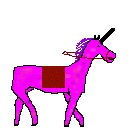
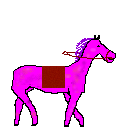
horn stuff

Changed region(s): [[0.7812, 0.2188, 0.9062, 0.3438], [0.0938, 0.5, 0.1875, 0.5625]]

diff --git a/src/entities/Horn.java b/src/entities/Horn.java
@@ -1,0 +1,54 @@
+package entities;
+
+import main.Main;
+import util.PictureImport;
+
+import java.awt.image.BufferedImage;
+
+public class Horn  extends Entity{
+
+    public static final BufferedImage horn1 = PictureImport.importImage("Horn_standard.png");
+    public static final BufferedImage horn2 = PictureImport.importImage("Horn_red.png");
+    public static final BufferedImage horn3 = PictureImport.importImage("Horn_gold.png");
+    public static final BufferedImage horn4 = PictureImport.importImage("Horn_rainbow.png");
+
+    public static final BufferedImage _horn1 = PictureImport.importImage("Horn_standard_attack.png");
+    public static final BufferedImage _horn2 = PictureImport.importImage("Horn_red_attack.png");
+    public static final BufferedImage _horn3 = PictureImport.importImage("Horn_gold_attack.png");
+    public static final BufferedImage _horn4 = PictureImport.importImage("Horn_rainbow_attack.png");
+
+    public static int h = 1;
+    public static BufferedImage horn = horn1;
+    private static BufferedImage _horn = PictureImport.flip(horn);
+    public static BufferedImage attackHorn = horn1;
+    private static BufferedImage _attackHorn = PictureImport.flip(_horn3);
+
+    public Horn(){
+        super(0, 0, 32, 32, horn);
+    }
+
+    public void update() {
+        if (!Main.player.attacking) {
+            if (Main.player.speed > 0) {
+                bi = horn;
+                x = Main.player.x + 200;
+                y = Main.player.y + 60;
+            } else {
+                bi = _horn;
+                x = Main.player.x + 20;
+                y = Main.player.y + 60;
+            }
+        } else{
+            if(Main.player.speed > 0){
+                bi = attackHorn;
+                x = Main.player.x + 240;
+                y = Main.player.y + 130;
+            } else{
+                bi = _attackHorn;
+                x = Main.player.x - 20;
+                y = Main.player.y + 130;
+            }
+
+        }
+    }
+}

diff --git a/src/main/Main.java b/src/main/Main.java
@@ -13,6 +13,7 @@ public class Main extends Thread{
     public static JFrame frame = new JFrame("MASTERRACE");
     public static GamePanel panel;
     private static long lastCycleTime = 0;
+    public static Horn horn = new Horn();
     public static final int TICKS = 30;
     public static int tick=0;
     private static Vec2f mouseClick;
@@ -84,7 +85,19 @@ public class Main extends Thread{
                         Player.maxLife *= 1.2f;
                         Player.life *= 1.2f;
                     } else{
-                        // todo: upgrade horn
+                        if(Horn.h == 1){
+                            Horn.horn = Horn.horn2;
+                            Horn.attackHorn = Horn._horn2;
+                        } else if(Horn.h == 2){
+                            Horn.horn = Horn.horn3;
+                            Horn.attackHorn = Horn._horn3;
+                        } else if(Horn.h == 3){
+                            Horn.horn = Horn.horn4;
+                            Horn.attackHorn = Horn._horn4;
+                        } else if(Horn.h == 4){
+                            Horn.horn = Horn.horn1;
+                            Horn.attackHorn = Horn._horn1;
+                        }
                     }
 
                 }
@@ -108,6 +121,7 @@ public class Main extends Thread{
         }
         player.update();
         prince.update();
+        horn.update();
         mouseClick = null;
         if(rainbows.size() > 100) rainbows.remove(0);
     }

diff --git a/src/entities/Player.java b/src/entities/Player.java
@@ -31,7 +31,7 @@ public class Player extends Entity{
     private final int START_Y=Main.panel.getHeight()-Player.PLAYER_SIZE-Level.TILE_SCREEN_SIZE;
 
     private int lastAttackChange=0;
-    private static boolean attacking = false;
+    public static boolean attacking = false;
 
     public Player(int xCoordinate, int yCoordinate){
         super(xCoordinate,yCoordinate, PLAYER_SIZE, PLAYER_SIZE, PictureImport.importImage("Einhorn_1.png"));
@@ -58,8 +58,8 @@ public class Player extends Entity{
                 _img1.setRGB(_img1.getWidth()-i-1, j, tmp);
             }
 
-        attackingImg = PictureImport.importImage("attacking.png");
-        _attackingImg = attackingImg;
+        attackingImg = PictureImport.importImage("Einhorn_Attack.png");
+        _attackingImg = PictureImport.importImage("Einhorn_Attack.png");
         for (int i=0;i<_attackingImg.getWidth()/2;i++)
             for (int j=0;j<_attackingImg.getHeight();j++)
             {
@@ -94,6 +94,7 @@ public class Player extends Entity{
                     }
                 }
             }
+
         } else {
             if(lastAttackChange + ATTACK_DURATION < Main.tick){
                 attacking = false;

diff --git a/src/entities/Prince.java b/src/entities/Prince.java
@@ -7,13 +7,30 @@ import java.awt.image.BufferedImage;
 
 public class Prince extends Entity {
     private static final BufferedImage bmp = PictureImport.importImage("Prinz_1.png");
+    private static final BufferedImage _img = PictureImport.importImage("Prinz_1.png");
+
     public Prince(){
         super(0, 0, 200, 200, bmp);
+        for (int i=0;i<_img.getWidth()/2;i++)
+            for (int j=0;j<_img.getHeight();j++)
+            {
+                int tmp = _img.getRGB(i, j);
+                _img.setRGB(i, j, _img.getRGB(_img.getWidth()-i-1, j));
+                _img.setRGB(_img.getWidth()-i-1, j, tmp);
+            }
     }
 
     public void update(){
-        x = Main.player.x;
-        y = Main.player.y;
+        if(Main.player.speed > 0){
+            bi = bmp;
+            x = Main.player.x;
+            y = Main.player.y;
+        }
+        else{
+            bi = _img;
+            x = Main.player.x + 55;
+            y = Main.player.y;
+        }
 
     }
 }

diff --git a/src/util/PictureImport.java b/src/util/PictureImport.java
@@ -23,4 +23,15 @@ public class PictureImport {
         }
         return img;
     }
+    public static BufferedImage flip(BufferedImage img){
+        BufferedImage _img = new BufferedImage(img.getWidth(), img.getHeight(), img.getType());
+        for (int i=0;i<img.getWidth();i++)
+            for (int j=0;j<img.getHeight();j++)
+            {
+                int tmp = img.getRGB(i, j);
+                _img.setRGB(i, j, img.getRGB(img.getWidth()-i-1, j));
+                _img.setRGB(img.getWidth()-i-1, j, tmp);
+            }
+        return _img;
+    }
 }

diff --git a/src/graphics/GamePanel.java b/src/graphics/GamePanel.java
@@ -54,6 +54,7 @@ public class GamePanel extends JPanel {
         g.drawString(Main.money + "$", this.getWidth() - 150, Upgrade.y + (Upgrade.size + g.getFont().getSize()) / 2);
         if(Main.player!=null)Main.player.render(g);
         Main.prince.render(g);
+        Main.horn.render(g);
         for(Enemy e:Main.activeEnemies){
             e.render(g);
         }
